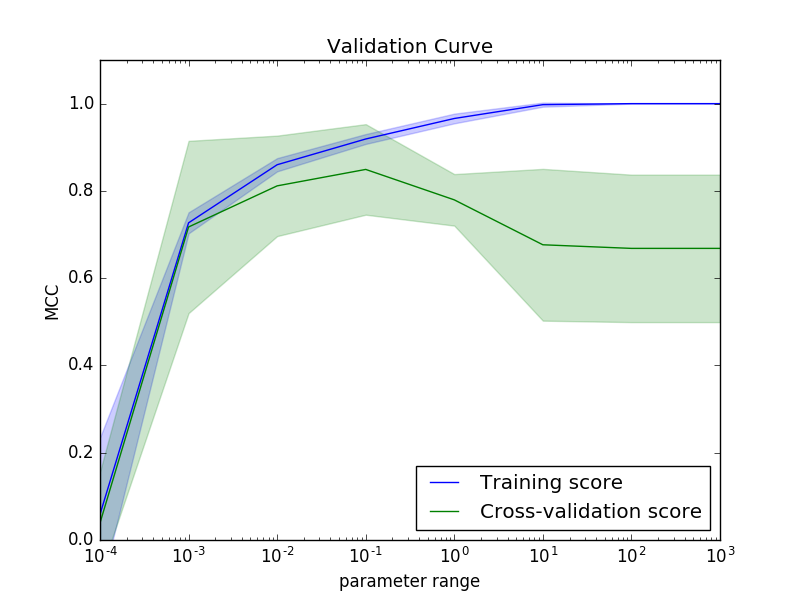
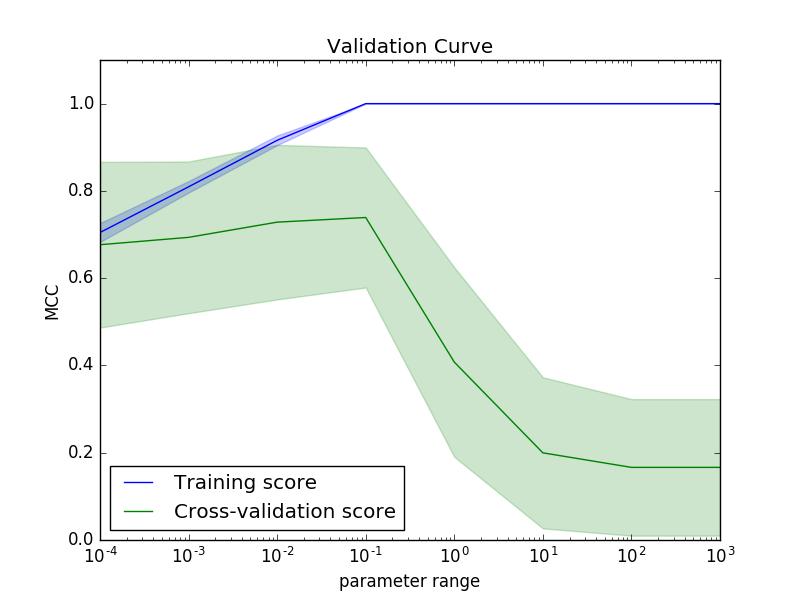
Modified examples in ml module to fit new available datasets

Changed region(s): [[0.125, 0.15, 0.9062, 0.9]]

diff --git a/modlamp/ml.py b/modlamp/ml.py
@@ -88,36 +88,34 @@ def train_best_model(model, x_train, y_train, scaler=StandardScaler(), score=mak
     :Example:
 
     >>> from modlamp.ml import train_best_model
-    >>> from modlamp.datasets import load_ACPvsNeg
+    >>> from modlamp.datasets import load_ACPvsRandom
     >>> from modlamp import descriptors
 
     Loading a dataset for training.
 
-    >>> data = load_ACPvsNeg()
-    >>> data.sequences[188]
-    'FLFKLIPKAIKGLVKAIRK'
-    >>> data.target[188]
-    '1'
-    >>> data.target_names
-    array(['Neg', 'ACP'], dtype='|S3')
+    >>> data = load_ACPvsRandom()
+    >>> len(data.sequences)
+    826
+    >>>list(data.target_names)
+    ['Random', 'ACP']
 
     Calculating Pepcats descriptor in autocorrelation modality:
 
     >>> descr = descriptors.PeptideDescriptor(data.sequences,scalename='pepcats')
     >>> descr.calculate_autocorr(7)
     >>> descr.descriptor
-    array([[ 0.77777778,  0.11111111,  0.22222222, ...,  0.08333333,
+    array([[ 1.        ,  0.15      ,  0.        , ...,  0.35714286,
+         0.21428571,  0.        ],
+       [ 0.64      ,  0.12      ,  0.32      , ...,  0.05263158,
          0.        ,  0.        ],
-       [ 0.56521739,  0.04347826,  0.13043478, ...,  0.05882353,
-         0.        ,  0.        ],
-       [ 0.81818182,  0.27272727,  0.09090909, ...,  0.        ,
-         0.        ,  0.        ],
+       [ 1.        ,  0.23809524,  0.        , ...,  0.53333333,
+         0.26666667,  0.        ],
        ...,
-       [ 0.92307692,  0.07692308,  0.07692308, ...,  0.        ,
+       [ 0.5       ,  0.22222222,  0.44444444, ...,  0.33333333,
          0.        ,  0.        ],
-       [ 0.94736842,  0.10526316,  0.        , ...,  0.        ,
-         0.        ,  0.        ],
-       [ 0.94736842,  0.10526316,  0.        , ...,  0.        ,
+       [ 0.70588235,  0.17647059,  0.23529412, ...,  0.09090909,
+         0.09090909,  0.        ],
+       [ 0.6875    ,  0.1875    ,  0.1875    , ...,  0.2       ,
          0.        ,  0.        ]])
 
 
@@ -127,19 +125,18 @@ def train_best_model(model, x_train, y_train, scaler=StandardScaler(), score=mak
     >>> y_train = data.target
     >>> best_svm_model = train_best_model('svm', X_train, y_train)
     Best score (scorer: make_scorer(matthews_corrcoef)) and parameters from a 10-fold cross validation:
-    0.850469628236
-    {'clf__C': 0.1, 'clf__kernel': 'linear'}
+    0.739995453978
+    {'clf__gamma': 0.1, 'clf__C': 10.0, 'clf__kernel': 'rbf'}
 
     >>> best_svm_model.get_params()
-    {'clf': SVC(C=0.1, cache_size=200, class_weight='balanced', coef0=0.0,
-       decision_function_shape=None, degree=3, gamma='auto', kernel='linear',
+    {'clf': SVC(C=10.0, cache_size=200, class_weight='balanced', coef0=0.0,
+       decision_function_shape=None, degree=3, gamma=0.1, kernel='rbf',
        max_iter=-1, probability=True, random_state=1, shrinking=True, tol=0.001,
        verbose=False),
-     'clf__C': 0.1,
-     ...
-     'steps': [('scl', StandardScaler(copy=True, with_mean=True, with_std=True)),
-      ('clf', SVC(C=0.1, cache_size=200, class_weight='balanced', coef0=0.0,
-         decision_function_shape=None, degree=3, gamma='auto', kernel='linear',
+    ...
+    'steps': [('scl', StandardScaler(copy=True, with_mean=True, with_std=True)),
+      ('clf', SVC(C=10.0, cache_size=200, class_weight='balanced', coef0=0.0,
+         decision_function_shape=None, degree=3, gamma=0.1, kernel='rbf',
          max_iter=-1, probability=True, random_state=1, shrinking=True, tol=0.001,
          verbose=False))]}
     """
@@ -220,29 +217,36 @@ def plot_validation_curve(classifier, x_train, y_train, param_name,
 
     :Example:
 
-    >>> from modlamp.ml import train_best_model, plot_validation_curve
-    >>> from modlamp.datasets import load_ACPvsNeg
+    >>> from modlamp.ml import train_best_model
+    >>> from modlamp.datasets import load_ACPvsRandom
     >>> from modlamp import descriptors
 
     Loading a dataset for training.
 
-    >>> data = load_ACPvsNeg()
-    >>> data.sequences[188]
-    'FLFKLIPKAIKGLVKAIRK'
-    >>> data.target[188]
-    '1'
-    >>> data.target_names
-    array(['Neg', 'ACP'], dtype='|S3')
+    >>> data = load_ACPvsRandom()
+    >>> len(data.sequences)
+    826
+    >>>list(data.target_names)
+    ['Random', 'ACP']
 
-    Calculating Pepcats descriptor in autocorrelation:
+    Calculating Pepcats descriptor in autocorrelation modality:
 
     >>> descr = descriptors.PeptideDescriptor(data.sequences,scalename='pepcats')
     >>> descr.calculate_autocorr(7)
-    >>> descr.descriptor[0]
-    array([ 0.77777778,  0.11111111,  0.22222222,  0.16666667,  0.        ,
-        ...
-        0.        ,  0.66666667,  0.        ,  0.08333333,  0.08333333,
-        0.        ,  0.        ])
+    >>> descr.descriptor
+    array([[ 1.        ,  0.15      ,  0.        , ...,  0.35714286,
+         0.21428571,  0.        ],
+       [ 0.64      ,  0.12      ,  0.32      , ...,  0.05263158,
+         0.        ,  0.        ],
+       [ 1.        ,  0.23809524,  0.        , ...,  0.53333333,
+         0.26666667,  0.        ],
+       ...,
+       [ 0.5       ,  0.22222222,  0.44444444, ...,  0.33333333,
+         0.        ,  0.        ],
+       [ 0.70588235,  0.17647059,  0.23529412, ...,  0.09090909,
+         0.09090909,  0.        ],
+       [ 0.6875    ,  0.1875    ,  0.1875    , ...,  0.2       ,
+         0.        ,  0.        ]])
 
 
     Training an SVM model with this data:
@@ -250,7 +254,11 @@ def plot_validation_curve(classifier, x_train, y_train, param_name,
     >>> X_train = descr.descriptor
     >>> y_train = data.target
     >>> best_svm_model = train_best_model('svm', X_train, y_train)
-    >>> plot_validation_curve(best_svm_model, descr.descriptor, data.target, param_name='clf__C', param_range=[0.0001, 0.001, 0.01, 0.1, 1, 10, 100, 1000])
+    Best score (scorer: make_scorer(matthews_corrcoef)) and parameters from a 10-fold cross validation:
+    0.739995453978
+    {'clf__gamma': 0.1, 'clf__C': 10.0, 'clf__kernel': 'rbf'}
+
+    >>> plot_validation_curve(best_svm_model, X_train, y_train, param_name='clf__gamma', param_range=[0.0001, 0.001, 0.01, 0.1, 1, 10, 100, 1000])
 
     .. image:: ../docs/static/validation_curve.png
         :height: 300px
@@ -301,10 +309,10 @@ def predict(classifier, x_test, seqs_test, names_test=None, y_test=np.array([]),
     :Example:
 
     >>> from modlamp.ml import train_best_model, predict
-    >>> from modlamp.datasets import load_ACPvsNeg
+    >>> from modlamp.datasets import load_ACPvsRandom
     >>> from modlamp import descriptors
     >>> from modlamp.sequences import Helices
-    >>> data = load_ACPvsNeg()
+    >>> data = load_ACPvsRandom()
 
     Calculating descriptor from the data
     >>> desc = descriptors.PeptideDescriptor(data.sequences, scalename='pepcats')
@@ -312,7 +320,7 @@ def predict(classifier, x_test, seqs_test, names_test=None, y_test=np.array([]),
     >>> best_svm_model = train_best_model('svm', desc.descriptor, data.target)
 
     Generating 10 de novo Helical sequences to predict their activity
-    >>> H = Helices(seqnum=10, lenmin=7, lenmax=28)
+    >>> H = Helices(seqnum=10, lenmin=7, lenmax=30)
     >>> H.generate_sequences()
 
     Calculating descriptor for the newly generated sequences
@@ -321,13 +329,12 @@ def predict(classifier, x_test, seqs_test, names_test=None, y_test=np.array([]),
 
     >>> df = predict(best_svm_model, x_test=descH.descriptor, seqs_test=H.sequences)
     >>> df.head(3)
-           ID             Sequence  Pred_prob_class0  Pred_prob_class1
-    0   0  IVKVIKLGAKAVKAAVRLI          0.026383          0.973617
-    1   1        RAIKAVVRLGRIA          0.020023          0.979977
-    2   2     GVKIIRGGVRGIKIVV          0.106643          0.893357
+       ID                   Sequence  Pred_prob_class0  Pred_prob_class1
+    0   0  IAGKLAKVGLKIGKIGGKLVKGVLK          0.009167          0.990833
+    1   1                LGVRVLRIIIR          0.007239          0.992761
+    2   2              VGIRLARGVGRIG          0.071436          0.928564
 
     """
-# TODO: change in examples load_ACPvsNeg with new dataset example.
     if filename is None:
         filename = 'probability_predictions'
 
@@ -378,10 +385,9 @@ def score_cv(classifier, X, y, cv=10, metrics=None, names=None):
     :Example:
 
     >>> from modlamp.ml import train_best_model, score_cv
-    >>> from modlamp.datasets import load_ACPvsNeg
+    >>> from modlamp.datasets import load_ACPvsRandom
     >>> from modlamp import descriptors
-    >>> from modlamp.sequences import Helices
-    >>> data = load_ACPvsNeg()
+    >>> data = load_ACPvsRandom()
 
     Calculating descriptor from the data
     >>> desc = descriptors.PeptideDescriptor(data.sequences, scalename='pepcats')
@@ -390,15 +396,14 @@ def score_cv(classifier, X, y, cv=10, metrics=None, names=None):
 
     Cross validation scores
     >>> score_cv(best_svm_model, desc.descriptor, data.target, cv=5)
-             Metrics  Mean CV score     StDev
-    0   accuracy       0.904552  0.057164
-    1  precision       0.924167  0.037676
-    2     recall       0.884211  0.107348
-    3         f1       0.900237  0.062511
-    4    roc_auc       0.954294  0.035819
+         Metrics  Mean CV score     StDev
+    0   accuracy       0.841199  0.051708
+    1  precision       0.930872  0.024897
+    2     recall       0.735763  0.093979
+    3         f1       0.819435  0.064995
+    4    roc_auc       0.914607  0.039345
 
     """
-# TODO: change example for other existing dataset
     if metrics is None:
         metrics = ['accuracy', 'precision', 'recall', 'f1', 'roc_auc']
 
@@ -434,6 +439,34 @@ def score_testset(classifier, X_test, y_test):
     :param X_test: {array} descriptor values for the test data.
     :param y_test: {array} class values for the test data.
     :return: pandas dataframe containing the cross validation scores for the specified metrics.
+
+    :Example:
+
+    >>> from modlamp.ml import train_best_model, score_testset
+    >>> from sklearn.model_selection import train_test_split
+    >>> from modlamp.datasets import load_ACPvsRandom
+    >>> from modlamp import descriptors
+    >>> data = load_ACPvsRandom()
+
+    Calculating descriptor from the data
+    >>> desc = descriptors.PeptideDescriptor(data.sequences, scalename='pepcats')
+    >>> desc.calculate_autocorr(7)
+
+    Splitting into train and test sets
+    >>> X_train, X_test, y_train, y_test = train_test_split(desc.descriptor, data.target, test_size = 0.33)
+
+    Training an SVM model with the training set
+    >>> best_svm_model = train_best_model('svm', X_train,y_train)
+
+    Calculating the test set scores
+    >>> score_testset(best_svm_model, X_test, y_test)
+             Metrics    Scores
+    0        MCC  0.838751
+    1   accuracy  0.919414
+    2  precision  0.923664
+    3     recall  0.909774
+    4         f1  0.916667
+    5    roc_auc  0.919173
     """
 
     metrics = ['MCC', 'accuracy', 'precision', 'recall', 'f1', 'roc_auc']
